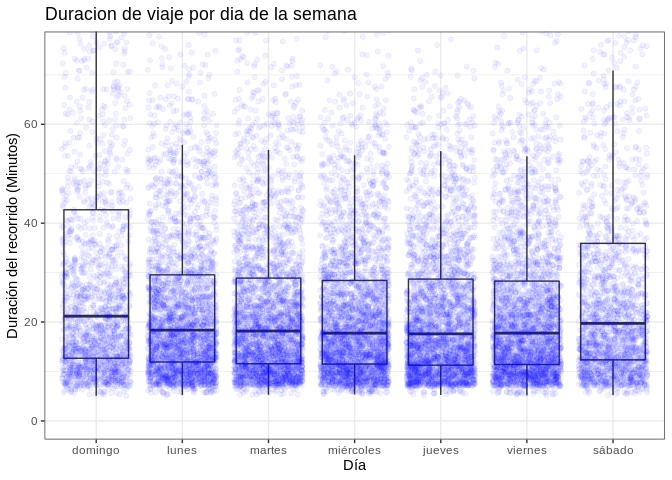
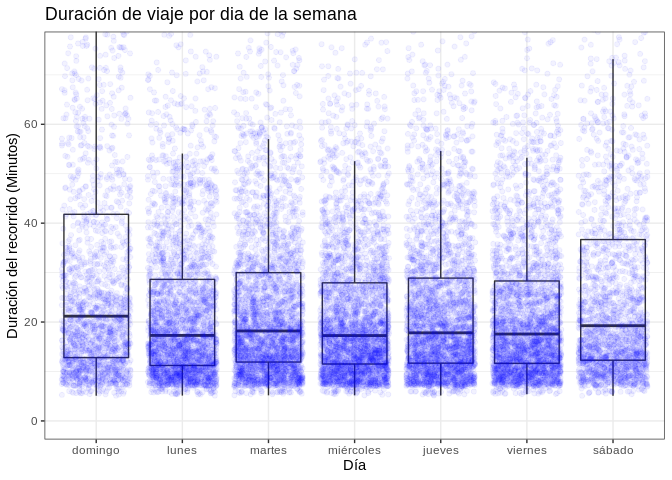
add readme table

diff --git a/README.md b/README.md
@@ -1,10 +1,7 @@
 ---
-title: "Ecobicis"
-author: "Germán Martinez, Sol Rodríguez Giralt, Nelson Shilman & Ezequiel Vannoni"
-date: "2020-04-18"
-output:
-  html_document:
-    keep_md: true
+Título: "Ecobicis"
+Autores: "Germán Martinez, Sol Rodríguez Giralt, Nelson Shilman & Ezequiel Vannoni"
+Fecha: "2020-04-18"
 ---
 
 # Trabajo práctico n°1 - ECOBICIS -
@@ -166,7 +163,7 @@ ggplot(bicis_df %>% sample_n(2e4),
   geom_jitter(col= "blue", alpha = .05)+
   coord_cartesian(ylim=c(0,75))+
   theme_bw()+
-  ggtitle("Duracion de viaje por dia de la semana")+
+  ggtitle("Duración de viaje por dia de la semana")+
   xlab("Día")+
   ylab("Duración del recorrido (Minutos)")
 ```
@@ -473,9 +470,11 @@ ggplot(usuarios_plot, aes(x = rango_etario, y = total, fill = usuario_sexo))+
 ```
 
 ![](README_files/figure-html/unnamed-chunk-20-1.png)<!-- -->
-\n \n
+
+
+
 #### 2) Para dar un mejor servicio al usuario, se desea estudiar si (estadísticamente) existe estacionalidad en el uso de la EcoBicis. Una forma de probarlo (y comunicarlo) es construir un gráfico que reporte los intervalos de confianza de la cantidad media de usuarios por cada día de la semana. ¿Hay evidencia estadística de estacionalidad en el uso? Comente.
-\n \n
+
 
 Para resolver esta consigna, primero estimamos la cantidad total de usuarios por día de semana
 
@@ -524,10 +523,11 @@ días sábado y domingo.
 Es decir, existe superposición de los intevalos de confianza entre los días de semana entre sí, como así
 también para los días de los fines de semana entre sí pero no al comparar días de semana con días del
 fin de semana.
-\n \n
+
+
 #### 3) Es sabido que la media se puede ver afectada por la presencia de valores extremos (e.g. feriados). Sobre los datos anteriores se pide que descuente del análisis los días feriados de 2018 y vuelva a construir el gráfico. ¿Cambian los resultados? Comente.
 
-\n \n
+
 Dado que el dataset no ofrece información acerca de qué días han sido feriados, procedemos a conectarnos a una API de feriados y descargamos un vector con todos los feriados en Argentina del año 2018
 
 
@@ -583,10 +583,11 @@ lunes y martes. No obstante, dados los nuevos intervalos de confianza, no hay ev
 que al remover los feriados haya diferencias en las medias vs contemplando los feriados con un nivel
 de significatividad del 5%. Adicionalmente, se siguen presentando diferencias estadísticamente
 significativas entre los valores medios de los días de semana y los correspondientes a los fines de semana.
-\n \n
+
+
 #### 4) Concéntrese en el usuario 606320. en 2018 realizó 95 recorridos. Elimine los casos en que la estación de origen coincide con la de destino para el mismo recorrido. Queremos calcular la velocidad media a la que usualmente se desplaza este ciclista. Cuando trabajamos con velocidades lo correcto es utilizar la media armónica (y no la media aritmética). Calculando la distancia en bici entre las estaciones (use Google Maps) y con el dato de la duración del recorrido (asumiendo que la persona “no interrumpe el recorrido”, lo cual para este usuario resulta razonable), calcule la velocidad media de circulación de dicho usuario. Comente las ventajas de usar la media armónica en lugar de la media aritmética.
 
-\n \n
+
 Primero identificamos los registros del usuario 606320 con origen distinto a destino y
 omitimos los que tienen destino u origen NA
 
@@ -732,9 +733,10 @@ es menor el tiempo que se
 transcurre viajando. Consecuentemente, el estadístico suele sobreestimar la velocidad.
 En cambio, la media harmónica, al emplear recíprocos,permite anular este efecto,
 ya que implícitamente opera con el ratio de horas por km.
-\n \n
+
+
 #### 5) Una de las estaciones más concurridas es la “009-PARQUE LAS HERAS” y desde allí la mayoría de los usuarios suele dirigirse hasta la estación "066-BILLINGURST". Según Google Maps, entre una estación y otra hay 1.5km y en promedio en bici debería tardarse 8 minutos. Se considera que si un usuario tarda más de 15 minutos es porque hizo escalas en el camino u optó por otro recorrido antes de dejar la bici en su destino final. Evalúe empíricamente si la proporción de usuarios que tardan más de 15 minutos no supera el 20 %.
-\n \n
+
 
 Primero procedemos a filtrar nuestros datos 
 
@@ -777,9 +779,11 @@ binom.test(x = x, p = .2, alternative = "less")
 ```
 
 Al correr este test, encontramos que para un nivel de significancia del 5%, no disponemos de evidencia empírica sufucicente que nos permita rechazar la hipótesis nula de que los usuarios que demoran más de 15 minutos superan el 20% de los registros.
-\n \n
+
+
 #### 6) Sobre la prueba del punto anterior obtenga la curva de potencia del test. Comente.
-\n \n
+
+
 Construimos curva de potencia del test
 
 
@@ -793,9 +797,10 @@ plot(x, x_pwr, type = "l",lwd = 2)
 
 
 De esta podemos observar de acuerdo a la diferencia real en proporciones, cuál es la probabilidad de rechazo de la hipótesis nula dado que la hipótesis nula es falsa. Se observa de manera bastante más clara cómo a medida que nos separamos de 0,2 hacia la izquierda, aumenta la potencia del test.
-\n \n
+   
+   
 #### 7) En mayo de 2018 se inauguró la estación Facultad de Derecho de la línea H de subtes. ¿Afectó esto al uso de la EcoBici por la zona? Evalúe empíricamente si en la estación “001-FACULTAD DE DERECHO” se registró una diferencia estadísticamente significativa en el uso de las EcoBicis antes y después de la inauguración de la estación de subte. Comente.
-\n \n
+   
 
 Consultando wikipedia, encontramos que la inauguración de la estación "Facultad de Derecho" de la línea H, ha sido el 17 de mayo de 2018.
 
@@ -852,9 +857,11 @@ t.test(x = bicis_fd[bicis_fd$inaugurado ==1,"total"],
 ```
 
 Del test surge que la evidencia empírica nos permite rechazar con un nivel de significancia del 5%,  la hipótesis nula de que la cantidad media de recorridos para antes y después de la inauguración de la estación de subte es la misma.
-\n \n
+
+
 #### 8) Probar si existen diferencias estadísticamente significativas en el uso del sistema de EcoBici por género.
-\n \n
+
+
 Hacemos un test de medias para evaluar si existen diferencias estadísticamente significativas en el uso de Ecobicis por género
 
 
@@ -881,9 +888,10 @@ t.test(x = bicis_df[bicis_df$genero_usuario == "M","duracion_recorrido_minutos"]
 
 Del test surge que con un nivel de significancia del 5% rechazamos la hipótesis nula, indicando que la evidencia sugiere que la diferencia en las medias es mayor a cero.
 
-\n \n
+
 #### 9) Probar lo mismo que en el punto anterior, pero por grupo etario.
-\n \n
+
+
 Hacemos un left join de registros con usuarios para saber la edad de cada uno. \n
 primero hacemos un anti-join para saber si quedarían registros exceptuados
 
@@ -1023,10 +1031,10 @@ TukeyHSD(aov_rango_etario)
 ## (47,96]-(35,40]  1.902029681  1.66004940  2.14400996 0.0000000
 ## (47,96]-(40,47]  1.626480642  1.38227184  1.87068945 0.0000000
 ```
-\n \n
+
 
 #### 10) ¡Vamos por el 10! Bootstrapping: dado que la distribución del coeficiente de correlación no es normal ya que está limitada entre -1 y 1, el método bootstrap puede ser muy útil para hacer inferencia sobre dicho parámetro. Para ello, nos centraremos en la correlación entre la edad del usuario de EcoBici y la duración del recorrido para aquellos individuos que hacen el recorrido “Parque Las Heras - Billingurst” (mismos que en el punto 5 del TP). Siga los siguientes pasos para construir el intervalo de confianza del coeficiente de correlación entre dichas variables: 
-\n
+
 #### Defina una función ( function() ) que permita calcular el estadístico sobre el cual se quiere realizar el bootstrap. 
 
 #### Utilice la función boot() usando la base de datos de recorridos y la función generada en el paso anterior para tomar 1.000 muestras con reemplazo. 
@@ -1034,7 +1042,7 @@ TukeyHSD(aov_rango_etario)
 #### Obtenga el histograma de las estimaciones del bootstrap. Describa. 
 
 #### Utilice la función boot.ci() con la opción "perc" y obtenga el intervalo de confianza al 95 %. Interprete. ¿Resulta estadísticamente significativa la correlaciónentre la duración del recorrido y la edad del ciclista?
-\n \n
+
 
 Primero definimos subset de datos y la función de bootstrap
 
